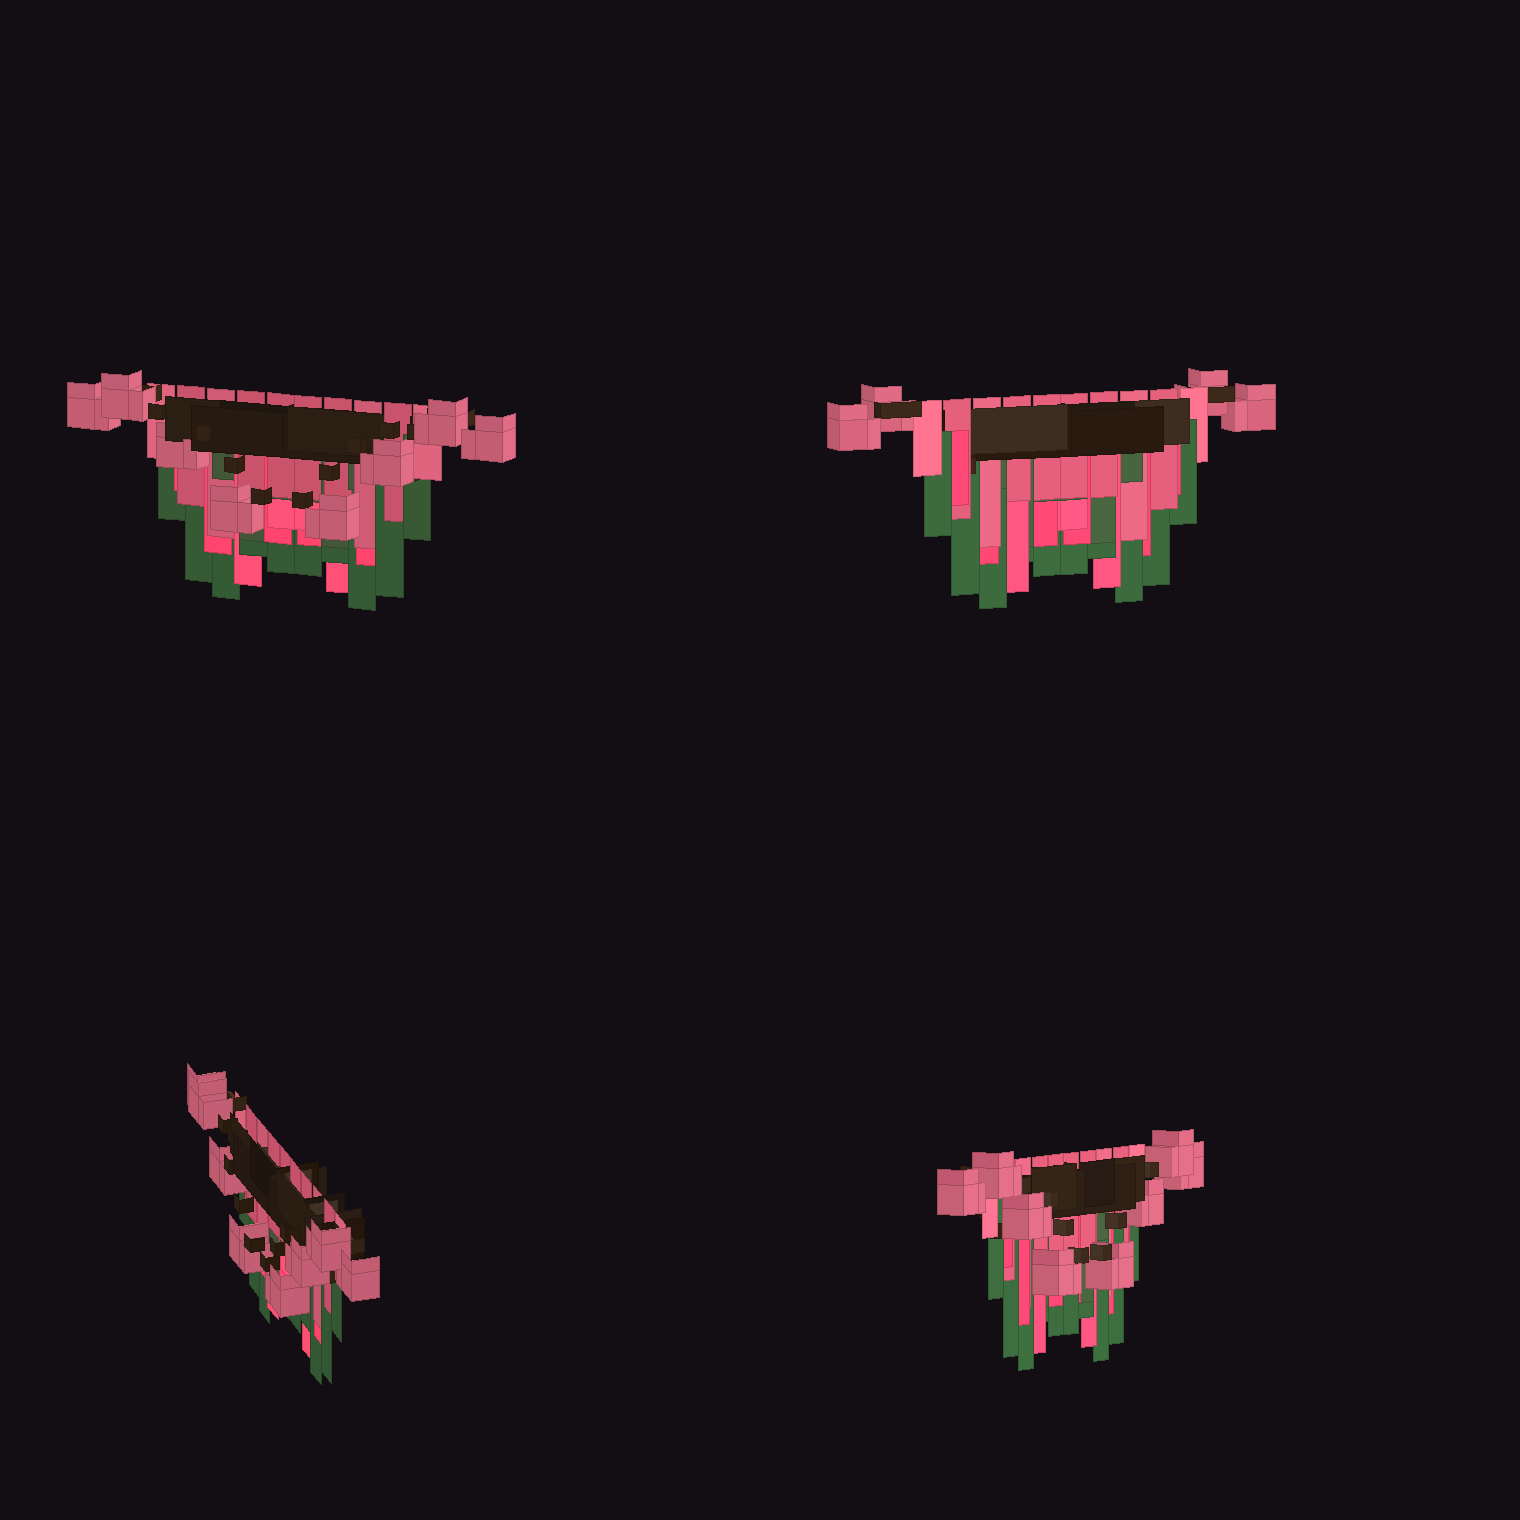
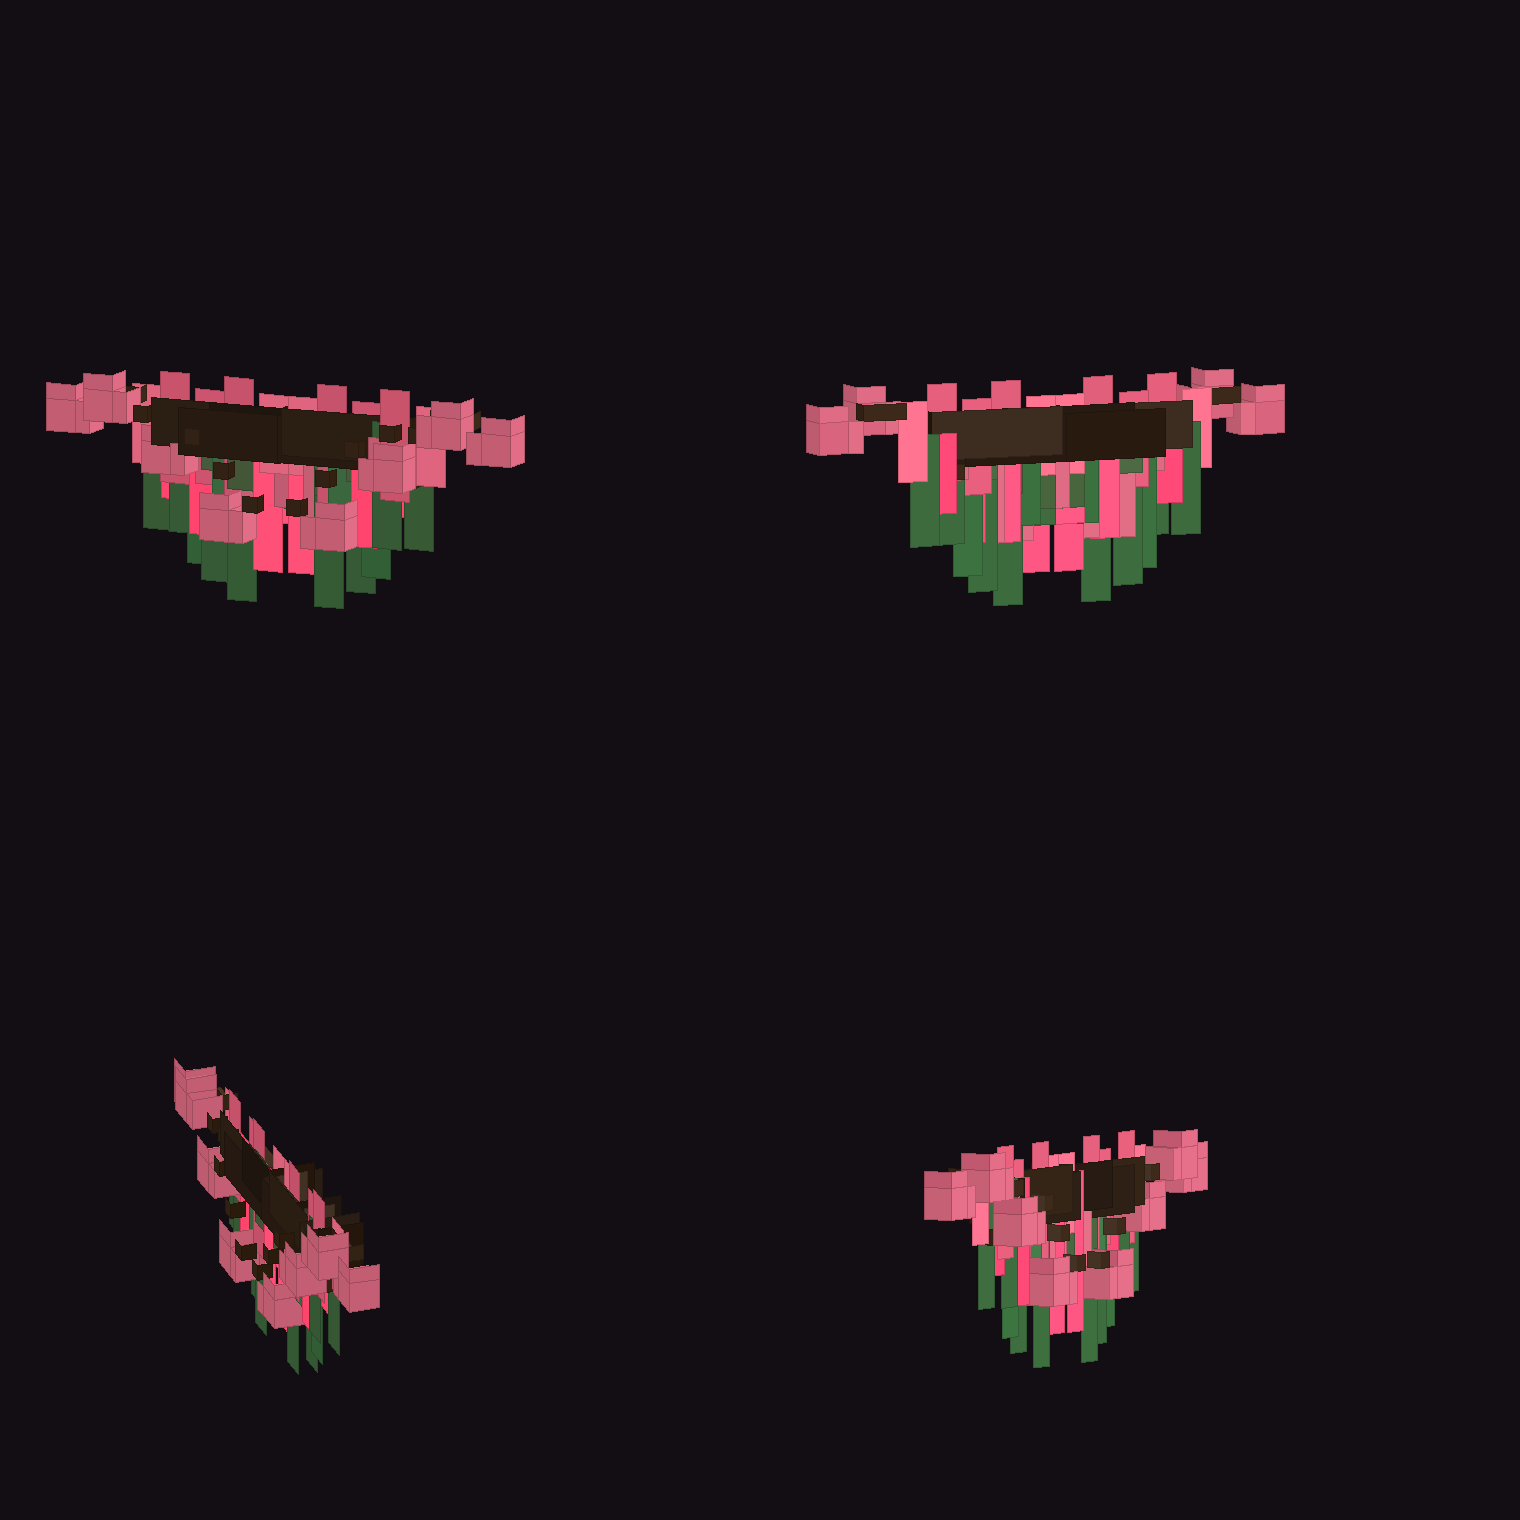
fix(preview): draw cosmetic previews as GUI sprites instead of picture-in-picture; refine rose wing feathers (staggered serrated plates, two layers)

diff --git a/src/main/java/sg/render/WingPreviewQueue.java b/src/main/java/sg/render/WingPreviewQueue.java
@@ -5,13 +5,14 @@ import java.util.EnumMap;
 import java.util.List;
 import java.util.Map;
 import net.minecraft.client.gui.GuiGraphicsExtractor;
-import sg.ec.WingPreviewRenderState;
+import sg.render.pipeline.UiDrawing;
 
 public final class WingPreviewQueue {
    private final @com.google.gson.annotations.SerializedName("衣")  Map<WingSelection, WingPreviewQueue.PreviewAnimator> previewAnimators = new EnumMap<>(WingSelection.class);
    private final @com.google.gson.annotations.SerializedName("И")  List<WingPreviewQueue.PreviewEntry> previews = new ArrayList<>();
    private static final float HORIZONTAL_CENTER_FACTOR = 0.5F;
    private static final float VERTICAL_CENTER_FACTOR = 0.5F;
+   private static final float SPRITE_FACTOR = 1.85F;
 
    public void queuePreview(WingSelection wings, float x, float y, float width, float height, float alpha) {
       WingPreviewQueue.PreviewAnimator previewAnimator = this.previewAnimators.computeIfAbsent(wings, variant -> new WingPreviewQueue.PreviewAnimator(variant.getAnimatedVariant().createAnimator()));
@@ -23,24 +24,16 @@ public final class WingPreviewQueue {
    }
 
    public void submitPreviews(GuiGraphicsExtractor graphics, float clipX, float clipY, float clipWidth, float clipHeight) {
-      if (!this.previews.isEmpty()) {
-         GuiCoordinateTransform transform = GuiCoordinateTransform.of(clipX, clipY, clipWidth, clipHeight);
-         List draws = this.previews
-            .stream()
-            .map(
-               preview -> new WingPreviewRenderState.WingDraw(
-                  preview.wing.getAnimatedVariant(),
-                  preview.preview.animator,
-                  preview.preview.advanceAndGetPartialTick(),
-                  preview.alpha,
-                  transform.localX(preview.x),
-                  transform.localY(preview.y),
-                  preview.width * transform.scaleX(),
-                  preview.height * transform.scaleY()
-               )
-            )
-            .toList();
-         graphics.guiRenderState.addPicturesInPictureState(new WingPreviewRenderState(draws, transform.x1(), transform.y1(), transform.x2(), transform.y2(), 1.0F, transform.clip()));
+      for (WingPreviewQueue.PreviewEntry preview : this.previews) {
+         int alpha = Math.clamp(Math.round(preview.alpha * 255.0F), 0, 255);
+         if (alpha <= 0) {
+            continue;
+         }
+
+         float side = Math.max(preview.width, preview.height) * SPRITE_FACTOR;
+         float spriteX = clipX + preview.x - side * 0.5F;
+         float spriteY = clipY + preview.y - side * 0.5F;
+         UiDrawing.drawTexture(spriteX, spriteY, side, side, 0.0F, alpha << 24 | 0xFFFFFF, preview.wing.getAnimatedVariant().getTextureId());
       }
    }
 

diff --git a/src/main/java/sg/render/BackpackPreviewQueue.java b/src/main/java/sg/render/BackpackPreviewQueue.java
@@ -3,25 +3,28 @@ package sg.render;
 import java.util.ArrayList;
 import java.util.List;
 import net.minecraft.client.gui.GuiGraphicsExtractor;
-import sg.gui.BackpackPreviewRenderState;
+import sg.render.pipeline.UiDrawing;
 
 public final class BackpackPreviewQueue {
    private final @com.google.gson.annotations.SerializedName("В")  List<BackpackPreviewQueue.PreviewEntry> previews = new ArrayList<>();
    private static final float HORIZONTAL_CENTER_FACTOR = 0.5F;
    private static final float VERTICAL_CENTER_FACTOR = 0.5F;
+   private static final float SPRITE_FACTOR = 1.85F;
 
    public void submitPreviews(GuiGraphicsExtractor graphics, float clipX, float clipY, float clipWidth, float clipHeight) {
-      if (!this.previews.isEmpty()) {
-         GuiCoordinateTransform transform = GuiCoordinateTransform.of(clipX, clipY, clipWidth, clipHeight);
-         List draws = this.previews
-            .stream()
-            .map(
-               preview -> new BackpackPreviewRenderState.Preview(
-                  preview.variant, preview.alpha, transform.localX(preview.x), transform.localY(preview.y), preview.width * transform.scaleX(), preview.height * transform.scaleY()
-               )
-            )
-            .toList();
-         graphics.guiRenderState.addPicturesInPictureState(new BackpackPreviewRenderState(draws, transform.x1(), transform.y1(), transform.x2(), transform.y2(), transform.clip()));
+      for (BackpackPreviewQueue.PreviewEntry preview : this.previews) {
+         int alpha = Math.clamp(Math.round(preview.alpha * 255.0F), 0, 255);
+         if (alpha <= 0) {
+            continue;
+         }
+
+         float side = Math.max(preview.width, preview.height) * SPRITE_FACTOR;
+         float spriteX = clipX + preview.x - side * 0.5F;
+         float spriteY = clipY + preview.y - side * 0.5F;
+         int red = Math.clamp(Math.round(preview.variant.getRedComponent() * 255.0F), 0, 255);
+         int green = Math.clamp(Math.round(preview.variant.getGreenComponent() * 255.0F), 0, 255);
+         int blue = Math.clamp(Math.round(preview.variant.getBlueComponent() * 255.0F), 0, 255);
+         UiDrawing.drawRoundedRect(spriteX, spriteY, side, side, side * 0.22F, alpha << 24 | red << 16 | green << 8 | blue);
       }
    }
 

diff --git a/src/main/java/sg/ec/RoseWingModel.java b/src/main/java/sg/ec/RoseWingModel.java
@@ -51,6 +51,8 @@ public final class RoseWingModel extends WingModel {
          addAll(bones[1], plates[1]);
          addAll(bones[2], plates[2]);
          addAll(bones[3], plates[3]);
+         addAll(bones[1], plate(26, 46, 1.0F, 1.0F, 8, 10, 0.0F, 1.5F, 1.0F, sign));
+         addAll(bones[2], plate(46, 50, -1.0F, 1.0F, 9, 9, 0.0F, 1.0F, 0.0F, sign));
 
          WingModelPart thorns = side == 0 ? this.leftThorns : this.rightThorns;
          WingModelPart twigs = side == 0 ? this.leftTwigs : this.rightTwigs;
@@ -89,11 +91,18 @@ public final class RoseWingModel extends WingModel {
 
       for (int strip = 0; strip < strips; strip++) {
          float offset = strip * step;
-         float wave = (float)Math.sin((strip + 1) * 1.9F + width * 0.7F);
-         float taper = 1.0F - 0.32F * Math.abs((float)strip / Math.max(1, strips - 1) - 0.42F) * 2.0F;
-         int stripHeight = Math.max(3, Math.round(height * taper * (0.86F + 0.16F * wave)));
+         float position = (float)strip / Math.max(1, strips - 1);
+         // длина пера: длиннее к середине пластины, с разбросом по «бородкам»
+         float wave = (float)Math.sin((strip + 1) * 2.37F + width * 0.9F);
+         float taper = 1.0F - 0.42F * Math.abs(position - 0.42F) * 2.0F;
+         float jitter = 0.62F + 0.38F * (0.5F + 0.5F * wave);
+         int stripHeight = Math.max(2, Math.round(height * taper * jitter));
+         // ступенька: чётные перья чуть длиннее — кромка получается рваной, а не пилой
+         float dropY = (strip % 2 == 0) ? 0.0F : -1.0F;
          float minX = sign > 0 ? x + offset : -(x + offset + step);
-         ExtrudedWingModelPart part = ExtrudedWingModelPart.create(minX, y, PLATE_Z, Math.max(1, (int)step), stripHeight, textureU, textureV, 64, 64);
+         ExtrudedWingModelPart part = ExtrudedWingModelPart.create(
+            minX, y + dropY, PLATE_Z + 0.5F * (strip % 2), Math.max(1, (int)step), stripHeight, textureU, textureV, 64, 64
+         );
          part.setPivot(sign > 0 ? pivotX : -pivotX, pivotY, pivotZ);
          parts[strip] = part;
       }

diff --git a/src/main/java/sg/render/HatPreviewQueue.java b/src/main/java/sg/render/HatPreviewQueue.java
@@ -3,30 +3,29 @@ package sg.render;
 import java.util.ArrayList;
 import java.util.List;
 import net.minecraft.client.gui.GuiGraphicsExtractor;
-import sg.ec.HatPreviewRenderState;
+import sg.render.pipeline.UiDrawing;
 
 public final class HatPreviewQueue {
    private final @com.google.gson.annotations.SerializedName("сч")  List<HatPreviewQueue.PreviewEntry> previews = new ArrayList<>();
    private static final float HORIZONTAL_CENTER_FACTOR = 0.5F;
    private static final float VERTICAL_CENTER_FACTOR = 0.5F;
+   private static final float SPRITE_FACTOR = 1.85F;
 
    public void clearPreviews() {
       this.previews.clear();
    }
 
    public void submitPreviews(GuiGraphicsExtractor graphics, float clipX, float clipY, float clipWidth, float clipHeight) {
-      if (!this.previews.isEmpty()) {
-         GuiCoordinateTransform transform = GuiCoordinateTransform.of(clipX, clipY, clipWidth, clipHeight);
-         List draws = this.previews
-            .stream()
-            .map(
-               preview -> new HatPreviewRenderState.HatDraw(
-                  preview.hat, preview.alpha, transform.localX(preview.x), transform.localY(preview.y), preview.width * transform.scaleX(), preview.height * transform.scaleY()
-               )
-            )
-            .toList();
-         PreviewDiag.submitted(transform.x1(), transform.y1(), transform.x2(), transform.y2(), draws.size());
-         graphics.guiRenderState.addPicturesInPictureState(new HatPreviewRenderState(draws, transform.x1(), transform.y1(), transform.x2(), transform.y2(), 1.0F, transform.clip()));
+      for (HatPreviewQueue.PreviewEntry preview : this.previews) {
+         int alpha = Math.clamp(Math.round(preview.alpha * 255.0F), 0, 255);
+         if (alpha <= 0) {
+            continue;
+         }
+
+         float side = Math.max(preview.width, preview.height) * SPRITE_FACTOR;
+         float spriteX = clipX + preview.x - side * 0.5F;
+         float spriteY = clipY + preview.y - side * 0.5F;
+         UiDrawing.drawTexture(spriteX, spriteY, side, side, 0.0F, alpha << 24 | 0xFFFFFF, preview.hat.texture());
       }
    }
 

diff --git a/tools/preview/render_cosmetic.py b/tools/preview/render_cosmetic.py
@@ -54,11 +54,14 @@ def strip_plate(parent, x, y, z, w, h, tu, tv, pivot, sign):
     strips = max(2, w // 2)
     step = w / strips
     for i in range(strips):
-        wave = math.sin((i + 1) * 1.9 + w * 0.7)
-        taper = 1.0 - 0.32 * abs(i / max(1, strips - 1) - 0.42) * 2.0
-        sh = max(3, round(h * taper * (0.86 + 0.16 * wave)))
+        pos = i / max(1, strips - 1)
+        wave = math.sin((i + 1) * 2.37 + w * 0.9)
+        taper = 1.0 - 0.42 * abs(pos - 0.42) * 2.0
+        jitter = 0.62 + 0.38 * (0.5 + 0.5 * wave)
+        sh = max(2, round(h * taper * jitter))
+        drop = 0.0 if i % 2 == 0 else -1.0
         p = Part(pivot)
-        add_plate(p, x + i * step, y, z, max(1, int(step)), sh, tu, tv, sign)
+        add_plate(p, x + i * step, y + drop, z + 0.5 * (i % 2), max(1, int(step)), sh, tu, tv, sign)
         parent.children.append(p)
 
 
@@ -84,6 +87,9 @@ def build_rose(sign):
         ((0.0, -2.1, 11, 11), (46, 36), (0.0, 0.0, 0.0)),
     ]):
         strip_plate(bones[i], px, py, -0.5, w, h, tu, tv, pivot, sign)
+
+    strip_plate(bones[1], 1.0, 1.0, -0.5, 8, 10, 26, 46, (0.0, 1.5, 1.0), sign)
+    strip_plate(bones[2], -1.0, 1.0, -0.5, 9, 9, 46, 50, (0.0, 1.0, 0.0), sign)
 
     thorns = Part((6.5, 0.2, 0.1)); bones[2].children.append(thorns)
     for x, y, z in [(1, 4, 2), (3, 2, 2), (5, 0, 2), (7, -1, 1), (9, -1, 1)]:
